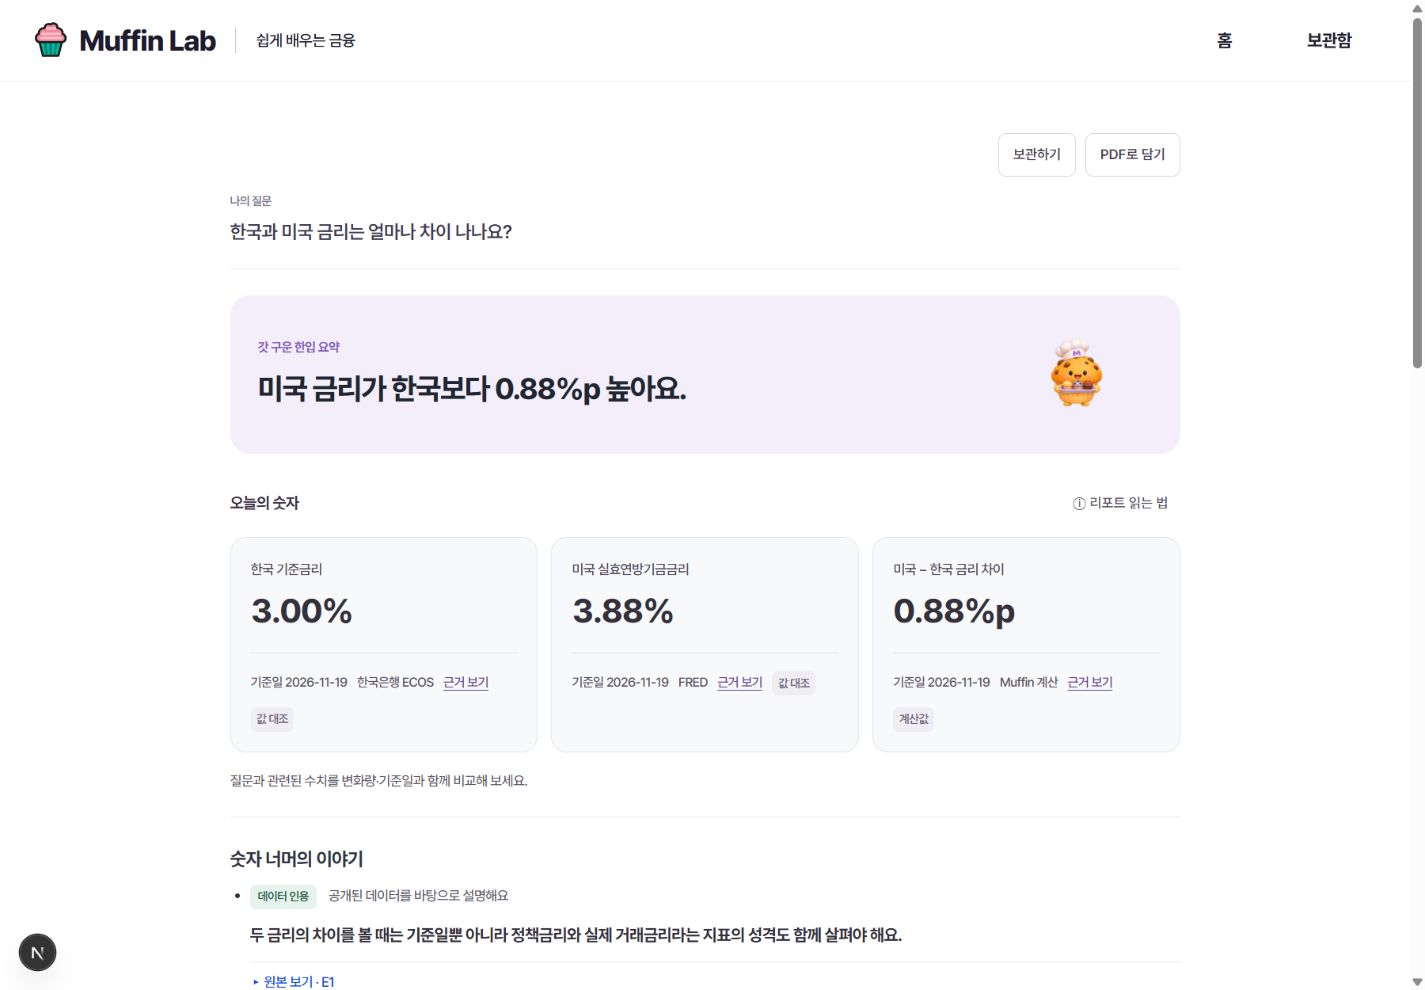
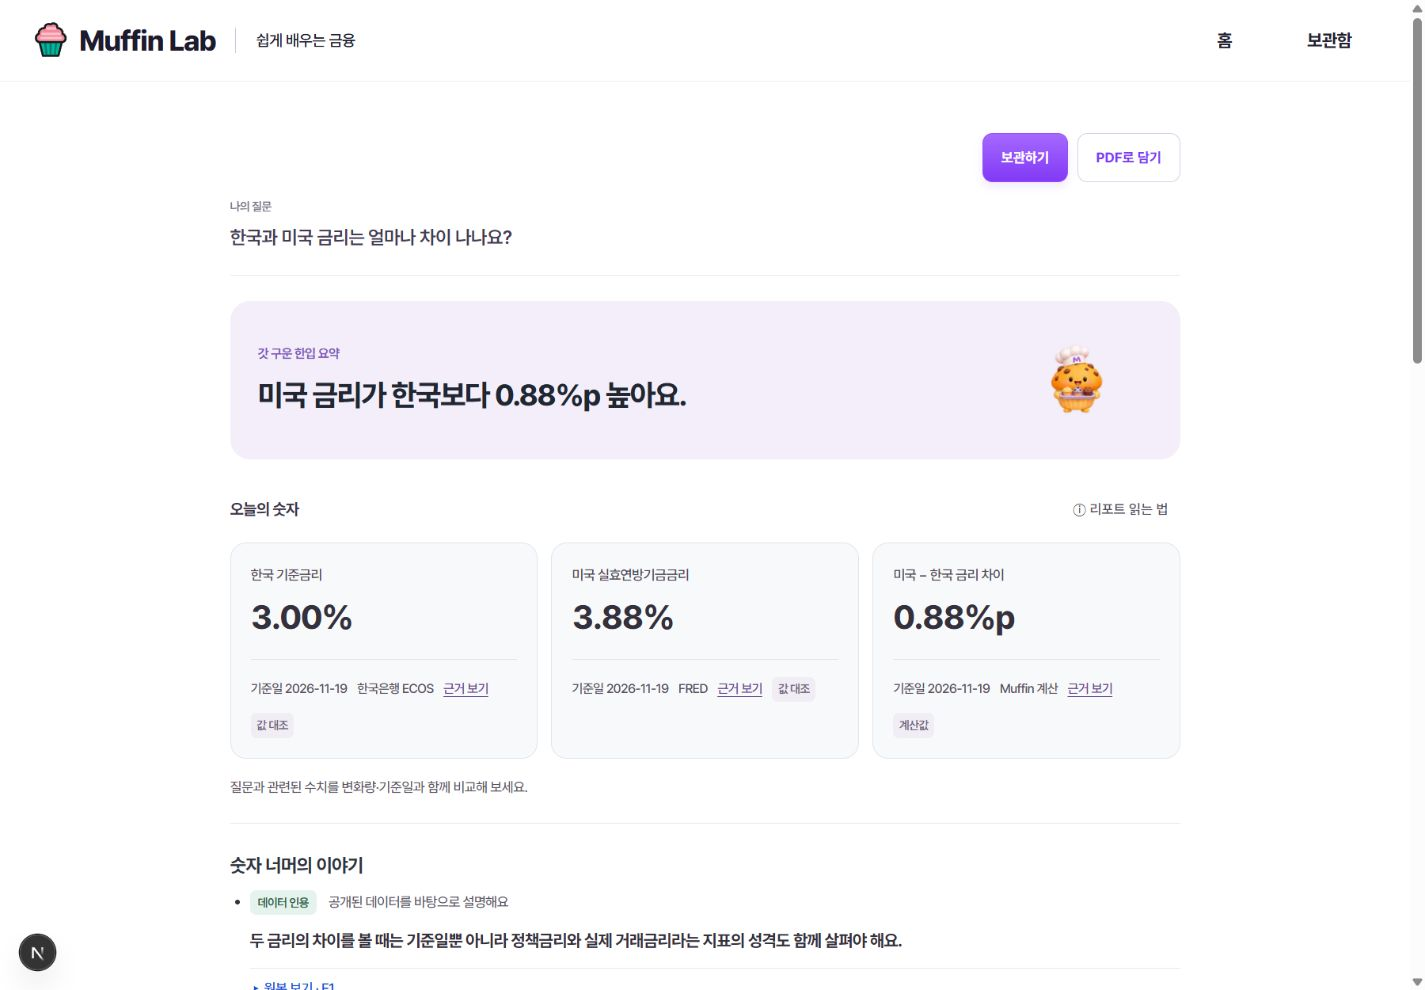
fix: 기존 카드 색감과 버튼 및 모바일 머핀 크기 복원

diff --git a/app/components/ReportView.module.css b/app/components/ReportView.module.css
@@ -519,12 +519,29 @@
 .report .metrics .metricMeta :global(.evidence-link) { color:#674591; text-decoration:underline; text-underline-offset:3px; }
 @container report (max-width:560px) {
   .report section.hero { position:relative; display:block; padding:20px; margin-bottom:24px; border-radius:16px; }
-  .report .heroCopy h2 { display:flex; align-items:center; min-height:36px; padding-right:48px; margin-bottom:10px; }
-  .report .heroArt { position:absolute; top:16px; right:16px; width:44px; height:44px; min-height:0; margin:0; }
+  .report .heroCopy h2 { margin-bottom:10px; }
+  .report .heroArt { position:relative; width:160px; height:144px; min-height:0; margin:12px auto 0; }
   .report .headlinePlaceholder { font-size:22px; line-height:1.55; }
   .report :global(.metrics-heading) { min-height:0; padding:0; margin-bottom:14px; }
   .report .reportToolbar { position:static; justify-content:flex-start; margin-top:8px; }
   .report :global(.report-help-button) { padding:8px 0; text-decoration:underline; text-underline-offset:3px; }
   .report .metrics :global(.num), .report .metrics :global(.num[data-kind="derived"]) { padding:18px; border-radius:14px; }
   .report .metrics :global(.numbers) { gap:12px; }
+}
+
+/* Restore familiar card surfaces without a colored outer wrapper. */
+.report :global(.report-actions) button { padding:12px 18px; border:1px solid var(--brand-purple-border); border-radius:10px; color:var(--brand-purple-strong); font-weight:700; }
+.report :global(.report-actions) button:first-child { background:var(--button-gradient); border-color:var(--brand-purple-border-active); box-shadow:var(--button-shadow); color:white; }
+.report :global(.report-actions) button:first-child:hover:not(:disabled) { filter:brightness(1.04); }
+.report :global(.report-actions) button:disabled { opacity:.75; }
+.report :global(.impact-card) { padding:22px; border:1px solid #e1d6eb; border-radius:14px; background:#f7f3fb; }
+.report :global(.impact-card) h3 { font-size:18px; margin-bottom:12px; color:#49345e; }
+.report .topicLink { padding:20px; border:1px solid #e1d6eb; border-radius:14px; background:#faf7fd; }
+.report :global(.chart-summary) { padding:20px; border:1px solid #e1d6eb; border-radius:14px; background:#f7f3fb; }
+@container report (max-width:560px) {
+  .report :global(.report-actions) { display:grid; grid-template-columns:repeat(2,minmax(0,1fr)); }
+  .report :global(.report-actions) [role="status"] { grid-column:1/-1; }
+  .report :global(.impact-card), .report .topicLink { padding:20px; }
+  .report .topicLink { flex-wrap:wrap; }
+  .report :global(.topic-action) { width:100%; margin-top:12px; }
 }

diff --git a/app/components/ReportView.tsx b/app/components/ReportView.tsx
@@ -76,7 +76,7 @@ export function ReportView({
           {!headline && <p className={styles.summaryBody}>{report.summary}</p>}
         </div>
         <div className={styles.heroArt} aria-hidden="true">
-          <Image src={resultMuffin} alt="" fill sizes="120px" />
+          <Image src={resultMuffin} alt="" fill sizes="(max-width: 560px) 160px, 120px" />
         </div>
       </section>
 

diff --git a/docs/pr/report-answer-first/README.md b/docs/pr/report-answer-first/README.md
@@ -21,7 +21,7 @@
 | 요구사항 | 반영 및 확인 |
 | --- | --- |
 | 질문 → 한 문장 답 → 핵심 숫자·변화 → 기준일·출처 | 공통 ReportView 순서 및 렌더 테스트 |
-| 요약 연보라 영역 복원 | 요약만 연보라 배경. 모바일 머핀은 상자 우상단 44px 장식으로 고정 |
+| 요약 연보라 영역 복원 | 요약 연보라 배경. 모바일 머핀은 문장 아래 중앙에 160×144px 영역으로 크게 배치 |
 | 숫자 영역 구분 | 숫자마다 옅은 회색 배경·중립색 테두리. PC 금리 3열 / 모바일 1열 |
 | 읽는 법 위치 | PC 숫자 제목 오른쪽 / 560px 이하 숫자 묶음 하단. 열기·닫기 확인 |
 | 검증 표시 기본 ON | 표시 전환 버튼 삭제. 검증 상세는 하단 접힘 |
@@ -33,7 +33,7 @@
 | 원인 설명 | 숫자 다음에 주장과 근거 수치, 출처 패널 중복 제거 |
 | 비교·물가 예시 | 금리 입력값 2개+차이, CPI 전월/전년 라벨 확인 |
 | 근거 연결 | 금리 차이 클릭 → 계산 탭, C1·입력 E 링크 확인 |
-| 보관·PDF | 공통 버튼 복원. 저장 후 재조회로 실패 감지. PDF는 브라우저 인쇄 사용 |
+| 보관·PDF | 기존 보라 그라데이션 보관 버튼·테두리 PDF 버튼 복원. 저장 후 재조회로 실패 감지. PDF는 브라우저 인쇄 사용 |
 | 후속 추천 | 작성과 화면이 같은 지원 질문 목록 사용, 질문에 맞는 area 전달. 클릭 후 홈에서 질문·금리 선택 확인, 생성은 사용자가 굽기 클릭 |
 | 작성 규칙 | Easy 비교만 최대 3개, 일반 최대 2개 / Deep 최소 4개 유지. 외화 구매·매도 관점, 물가 기여도 설명 보강 |
 
@@ -44,3 +44,7 @@
 - 이전 실제 생성 평가에서 발견된 엔화 단위 검증 오인과 금리 계산 방향 불일치는 이번 UI 통과로 해결됐다고 간주하지 않습니다.
 - 물가 품목군 가로 막대 및 요약 아래 숫자/출처 집계 한 줄은 초기 피드백의 선택 항목으로 이번 범위에 포함하지 않았습니다.
 - 원본 문구 수정은 write.ts, depth.ts와 macro note, cpi.ts의 근사치 설명에 한정합니다. 스키마와 Agent 이름은 유지합니다.
+
+## 카드 색감 복원
+
+생활 영향·추천·차트 요약은 개별 카드에만 옅은 보라 배경과 테두리를 복원했습니다. 바깥 섹션과 안내에는 배경 상자를 추가하지 않아 3중 색칠을 피합니다. [모바일 생활 영향](tobe-impact-mobile.jpg). PC·390px 금리 캡처는 이 변경으로 갱신했으며 외화·두 열 캡처는 직전 QA 기록입니다.

diff --git a/docs/pr/report-answer-first/PR.md b/docs/pr/report-answer-first/PR.md
@@ -1,10 +1,12 @@
 ## 무엇을
 
-리포트 첫 화면에서 안내·검증 때문에 답과 숫자가 밀리던 구조를 질문 → 한 문장 답 → 핵심 숫자·변화 → 기준일·출처로 정리했습니다. 요약은 연보라 영역, 숫자는 옅은 회색 카드로 구분하고 본문·출처의 글씨 크기와 대비를 높였습니다. 모바일에서는 머핀을 요약 상자 안에 고정하고 읽는 법을 숫자 묶음 아래로 배치합니다.
+리포트 첫 화면에서 안내·검증 때문에 답과 숫자가 밀리던 구조를 질문 → 한 문장 답 → 핵심 숫자·변화 → 기준일·출처로 정리했습니다. 요약은 연보라 영역, 숫자는 옅은 회색 카드로 구분하고 본문·출처의 글씨 크기와 대비를 높였습니다. 모바일에서는 머핀을 요약 문장 아래 중앙에 크게 배치하고 읽는 법을 숫자 묶음 아래로 배치합니다.
 
-출처는 항상 표시하고 추천은 기본 펼침, 검증·주의점은 하단 접힘으로 둡니다. 원인 주장과 근거 수치는 숫자 다음에 표시합니다. 보관·PDF 버튼을 복원하고, 후속 추천은 지원 도구로 조회 가능한 질문 목록에서 골라 해당 관심 영역으로 연결합니다.
+출처는 항상 표시하고 추천은 기본 펼침, 검증·주의점은 하단 접힘으로 둡니다. 원인 주장과 근거 수치는 숫자 다음에 표시합니다. 보관·PDF 버튼의 기존 보라색 스타일을 복원하고, 후속 추천은 지원 도구로 조회 가능한 질문 목록에서 골라 해당 관심 영역으로 연결합니다.
 
 작성 규칙은 Easy 비교 질문만 숫자 최대 3개를 허용하고 Deep 최소 4개는 유지합니다. 비교 입력값, CPI 전월/전년 라벨, 외화 구매·매도 관점을 보강하고 물가 기여도 근사치 설명을 정리했습니다. `depth.ts` 및 `cpi.ts` 변경은 담당자 검토가 필요합니다. 스키마·Agent 이름은 변경하지 않았습니다.
+
+생활 영향·추천·차트 요약은 개별 카드에 옅은 배경과 테두리를 살리고, 바깥 섹션·안내에는 배경을 더하지 않아 3중 중첩 색칠을 피했습니다.
 
 ## 왜
 
